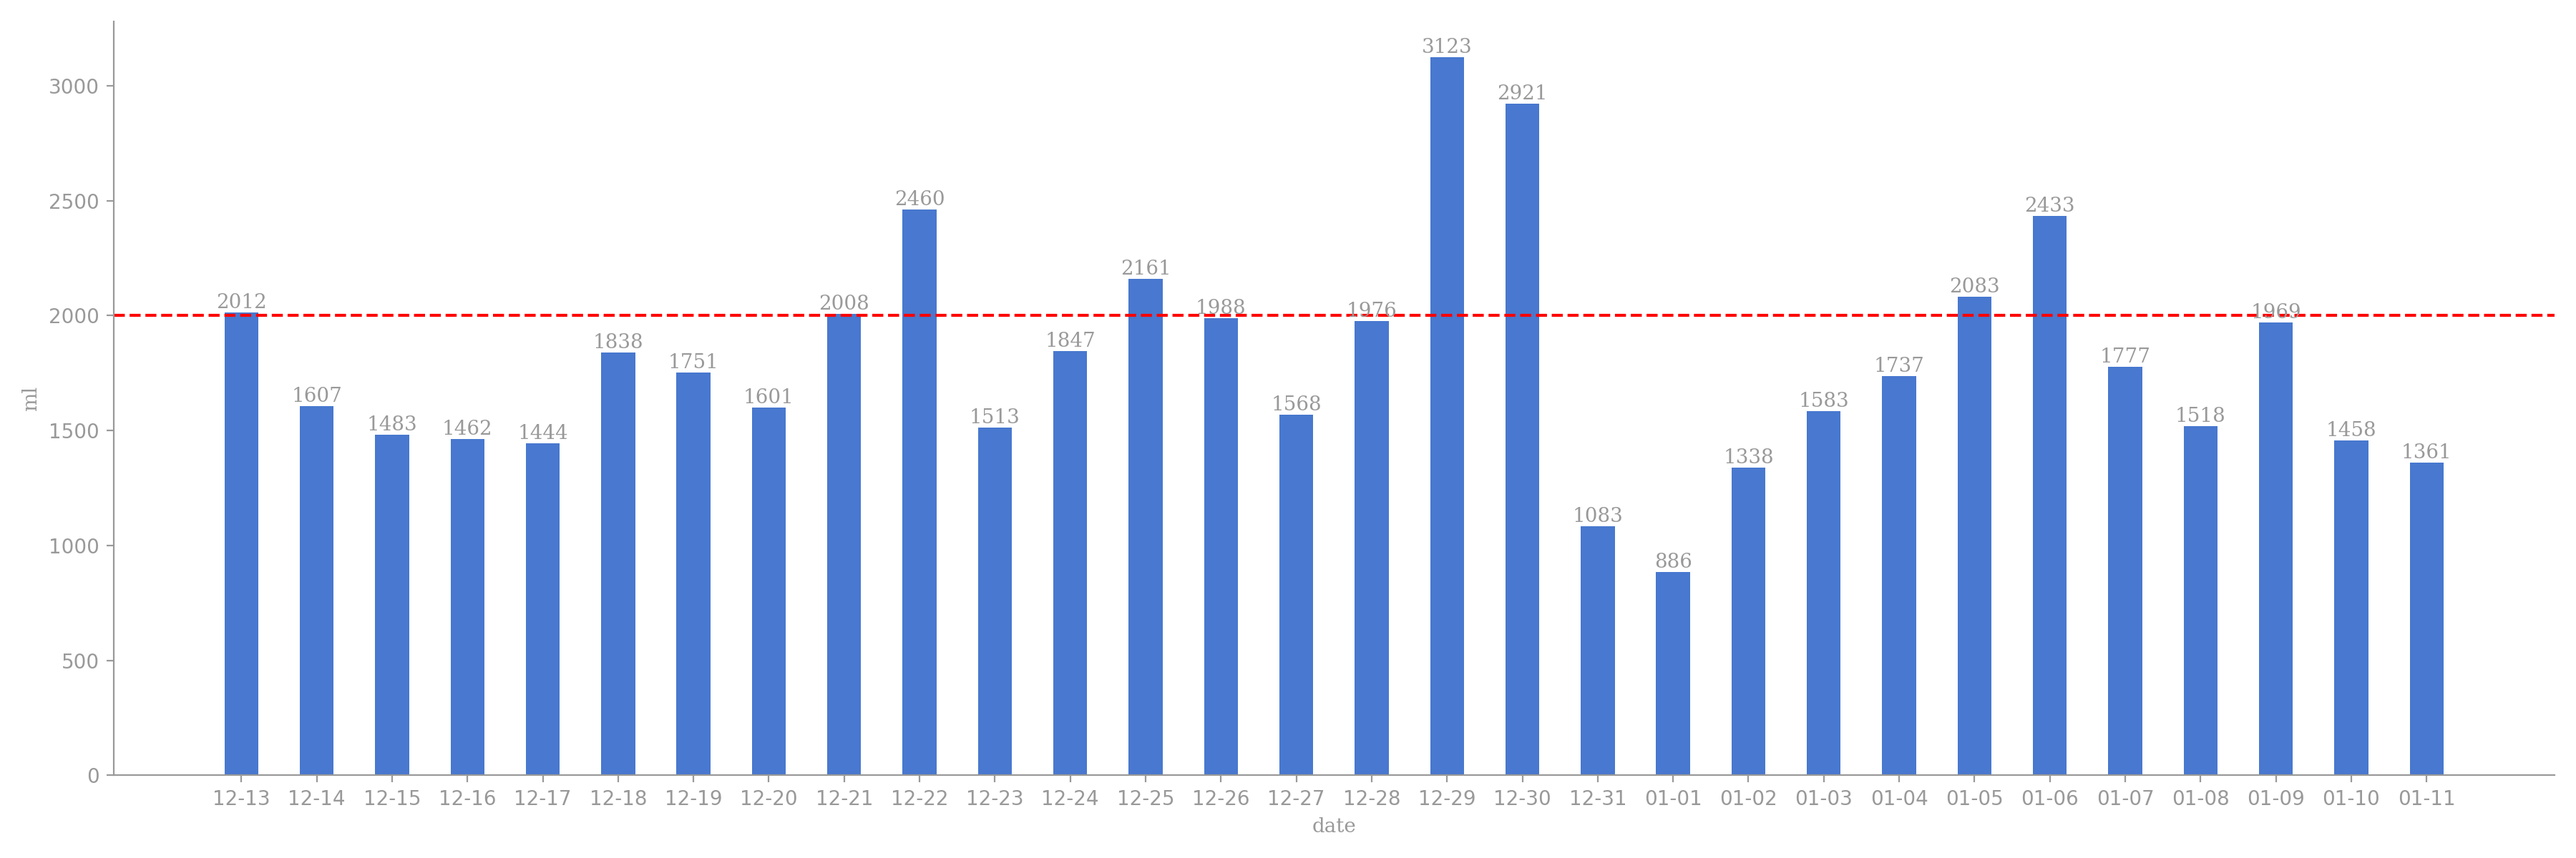
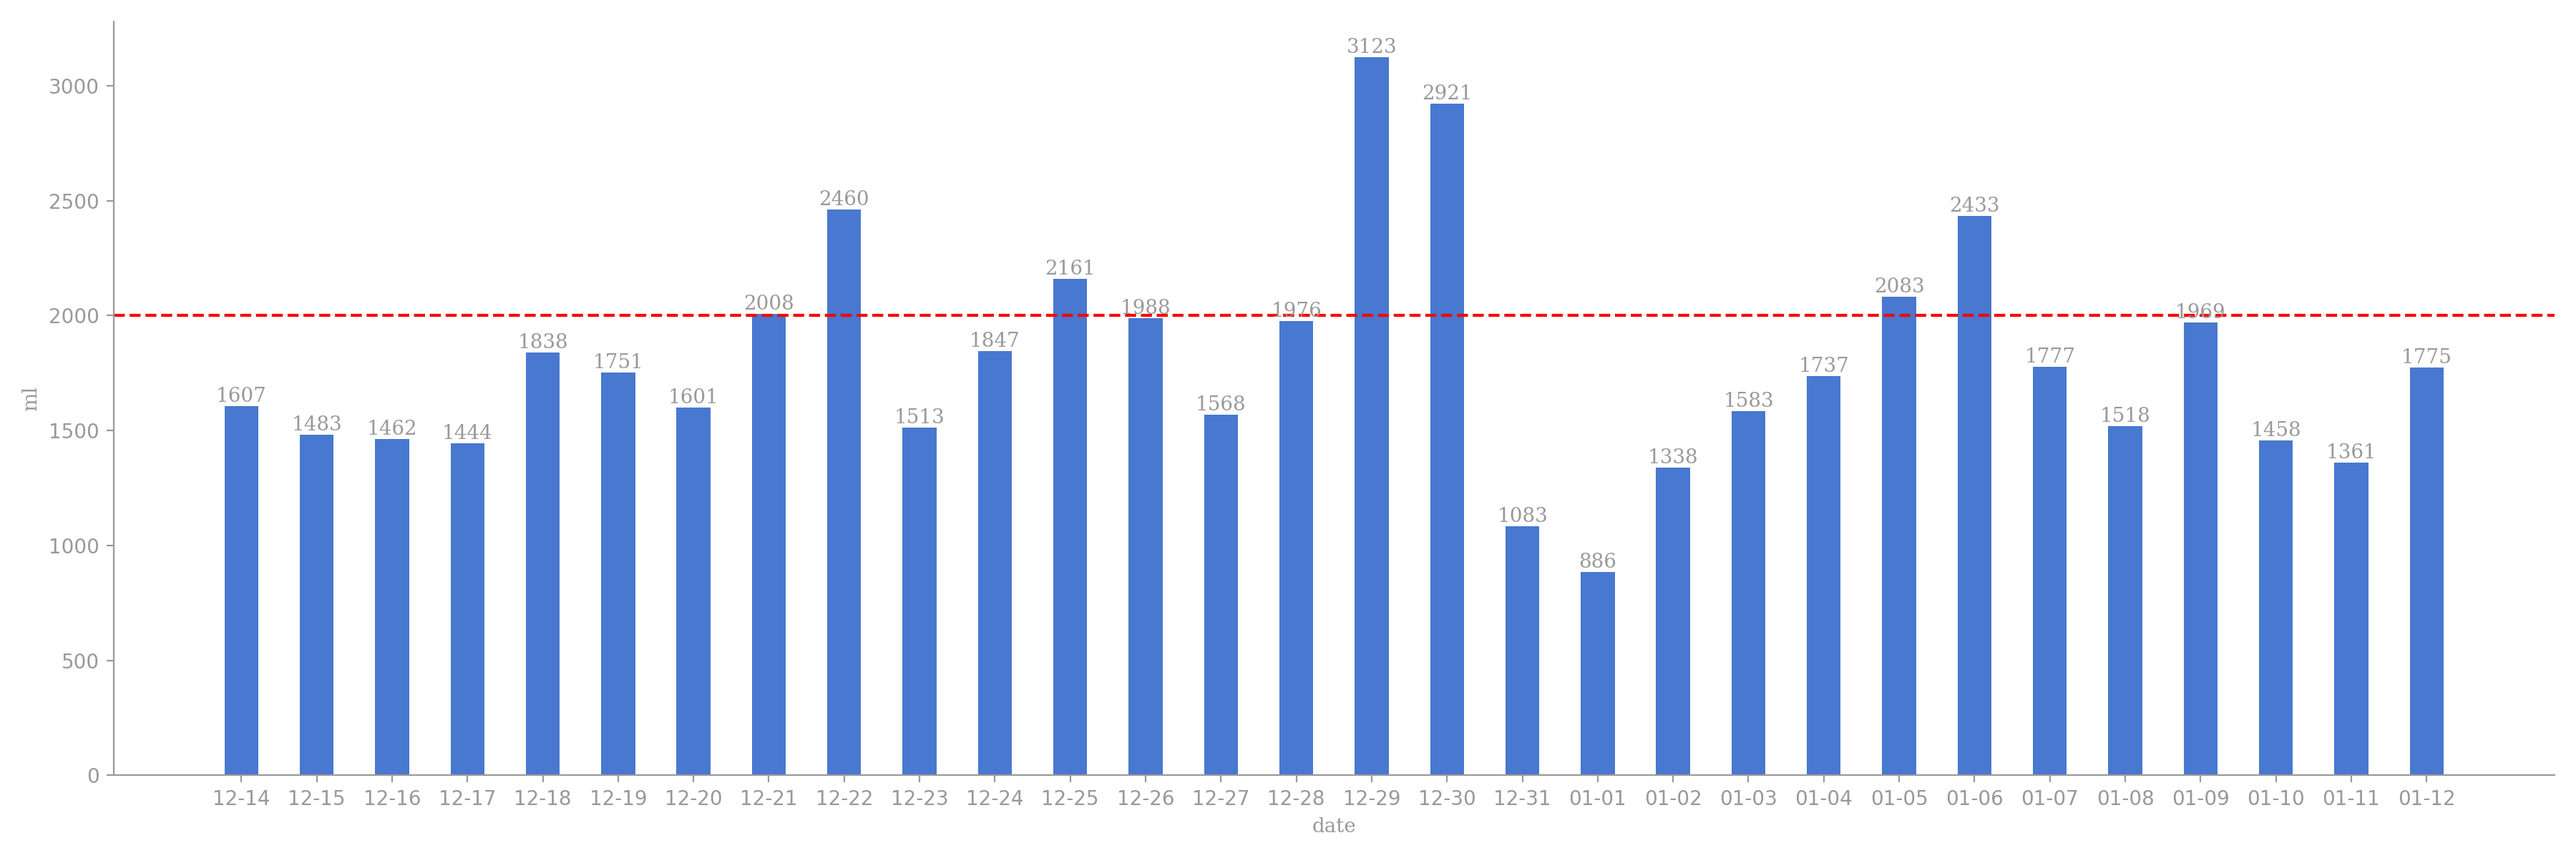
crontab auto git

Changed region(s): [[0.0622, 0.0308, 0.9644, 0.6783]]

diff --git a/README.md b/README.md
@@ -1,17 +1,3 @@
-# 今日饮水数据
-
-<div align=center>
-<img src="today.png" style="zoom: 100%;" />
-
-| 今日总饮水量 | 每小时平均饮水量 |
-| :----: | :----: |
-| 1775 | 177 |
-</div>
-
-| 日期 | 00:17:04 | 01:29:35 | 02:16:07 | 12:41:16 | 12:41:21 | 13:00:33 | 13:38:34 | 14:01:15 | 14:32:34 | 15:36:18 | 16:28:52 | 17:47:47 | 22:30:19 | 22:42:45 |
-| :----: | :----: | :----: | :----: | :----: | :----: | :----: | :----: | :----: | :----: | :----: | :----: | :----: | :----: | :----: |
-| 2026-01-12 | 92 | 46 | 88 | 300 | 212 | 82 | 84 | 89 | 77 | 86 | 63 | 74 | 400 | 82 |
-
 # 近30日饮水数据
 
 <div align=center>
@@ -19,8 +5,12 @@
 
 | 总饮水量 | 日均饮水量 |
 | :----: | :----: |
-| 53989 | 1799 |
+| 53752 | 1791 |
 </div>
+
+| 日期 | all | 00:17:04 | 01:29:35 | 02:16:07 | 12:41:16 | 12:41:21 | 13:00:33 | 13:38:34 | 14:01:15 | 14:32:34 | 15:36:18 | 16:28:52 | 17:47:47 | 22:30:19 | 22:42:45 |
+| :----: | :----: | :----: | :----: | :----: | :----: | :----: | :----: | :----: | :----: | :----: | :----: | :----: | :----: | :----: | :----: |
+| 2026-01-12 | 1775 | 92 | 46 | 88 | 300 | 212 | 82 | 84 | 89 | 77 | 86 | 63 | 74 | 400 | 82 |
 
 | 日期 | all | 00:21:38 | 00:38:20 | 07:03:24 | 11:57:25 | 14:32:09 | 16:01:13 | 17:13:10 | 18:04:47 | 19:32:38 | 20:55:10 | 21:44:47 | 22:09:19 | 22:43:02 | 23:43:50 |
 | :----: | :----: | :----: | :----: | :----: | :----: | :----: | :----: | :----: | :----: | :----: | :----: | :----: | :----: | :----: | :----: |
@@ -141,8 +131,4 @@
 | 日期 | all | 08:20:39 | 08:25:55 | 10:15:23 | 10:57:31 | 12:31:54 | 13:01:55 | 14:01:19 | 15:56:40 | 16:59:10 | 18:39:34 | 21:11:55 | 21:36:16 | 21:54:58 | 22:43:33 | 23:09:35 |
 | :----: | :----: | :----: | :----: | :----: | :----: | :----: | :----: | :----: | :----: | :----: | :----: | :----: | :----: | :----: | :----: | :----: |
 | 2025-12-13 | 2012 | 113 | 420 | 164 | 101 | 103 | 98 | 226 | 68 | 32 | 88 | 300 | 102 | 63 | 47 | 87 |
-
-| 日期 | all | 00:32:54 | 01:01:29 | 07:57:40 | 08:25:02 | 08:44:58 | 09:36:50 | 13:03:01 | 15:01:08 | 15:24:14 | 17:33:30 | 18:13:49 | 20:16:00 | 22:16:21 | 23:30:02 |
-| :----: | :----: | :----: | :----: | :----: | :----: | :----: | :----: | :----: | :----: | :----: | :----: | :----: | :----: | :----: | :----: |
-| 2025-12-12 | 1928 | 48 | 16 | 420 | 238 | 101 | 31 | 88 | 102 | 103 | 110 | 101 | 218 | 250 | 102 |
 
